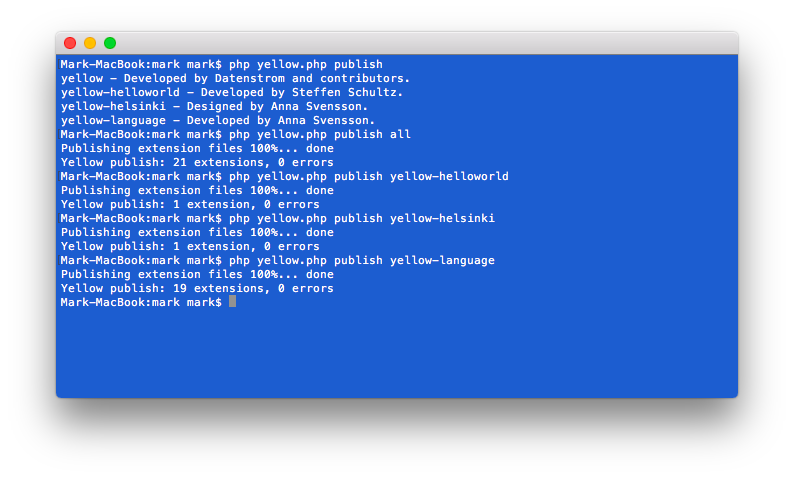
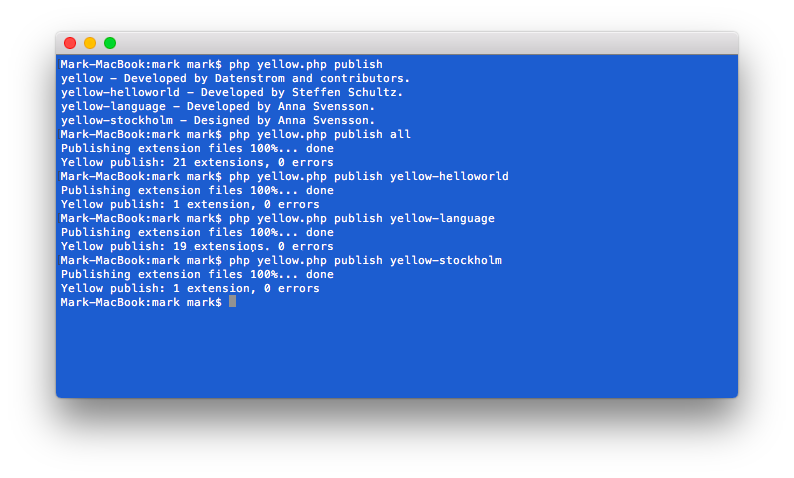
Updated documentation and screenshot

diff --git a/README-de.md b/README-de.md
@@ -8,7 +8,7 @@ Erweiterungen erstellen und veröffentlichen.
 
 ## Wie man eine Erweiterung erstellt
 
-Beginne mit einer [Beispiel-Funktion](https://github.com/schulle4u/yellow-helloworld) oder einem [Beispiel-Thema](https://github.com/schulle4u/yellow-basic). Das zeigt dir welche Dateien und Einstellungen erforderlich sind. Jede Erweiterung benötigt eine `extension.ini`-Datei mit Erweiterungseinstellungen. Bitte stelle sicher, dass deine Erweiterung unseren Programmierungs- und Dokumentationsstandards entspricht. Es ist nicht wichtig welchen Standard wir verwenden, aber dass wir alle einen gemeinsamen verwenden. Dann kann man in jede Erweiterung eintauchen und findet eine vertraute Struktur vor, in der man sich schnell zurecht findet. Lade deine Erweiterung zu GitHub hoch, lass uns wissen falls du Hilfe brauchst.
+Beginne mit einer [Funktion](https://github.com/schulle4u/yellow-helloworld), einer [Sprache](https://github.com/annaesvensson/yellow-language/tree/main/translation/german) oder einem [Thema](https://github.com/annaesvensson/yellow-stockholm/tree/main/README-de.md). Das zeigt dir welche Dateien und Einstellungen erforderlich sind. Jede Erweiterung benötigt eine `extension.ini`-Datei mit Erweiterungseinstellungen. Bitte stelle sicher, dass deine Erweiterung unseren Programmierungs- und Dokumentationsstandards entspricht. Es ist nicht wichtig welchen Standard wir verwenden, aber dass wir alle einen gemeinsamen verwenden. Dann kann man in jede Erweiterung eintauchen und findet eine vertraute Struktur vor, in der man sich schnell zurecht findet. Lade deine Erweiterung zu GitHub hoch, lass uns wissen falls du Hilfe brauchst.
 
 Falls du möchtest dass andere deine Erweiterung entdecken, kannst du das Thema [datenstrom-yellow](https://github.com/topics/datenstrom-yellow) zur deinem Repository hinzufügen.
 
@@ -36,7 +36,7 @@ Version: 0.8.15
 Description: Example feature for Datenstrom Yellow.
 DocumentationUrl: https://github.com/schulle4u/yellow-helloworld
 DownloadUrl: https://github.com/schulle4u/yellow-helloworld/archive/main.zip
-Published: 2019-01-24 19:42:13
+Published: 2020-08-13 16:12:30
 Developer: Steffen Schultz
 Tag: feature
 system/extensions/helloworld.php: helloworld.php, create, update
@@ -45,40 +45,42 @@ system/extensions/helloworld.css: helloworld.css, create, update
 system/extensions/helloworld.txt: helloworld.txt, create, update
 ~~~
 
-Erweiterungseinstellungen für ein Thema:
-
-~~~
-# Datenstrom Yellow extension settings
-
-Extension: Helsinki
-Version: 0.8.15
-Description: Example theme for Datenstrom Yellow.
-DocumentationUrl: https://github.com/annasvensson/yellow-helsinki
-DownloadUrl: https://github.com/annasvensson/yellow-helsinki/archive/main.zip
-Published: 2019-01-24 19:42:13
-Designer: Anna Svensson
-Tag: theme
-system/extensions/helsinki.php: helsinki.php, create, update
-system/extensions/helsinki.txt: helsinki.txt, create, update
-system/themes/helsinki.css: helsinki.css, create, update, careful
-system/themes/helsinki.png: helsinki.png, create
-~~~
-
 Erweiterungseinstellungen für eine Sprache:
 
 ~~~
 # Datenstrom Yellow extension settings
 
 Extension: German
-Version: 0.8.24
+Version: 0.8.32
 Description: German/Deutsch with language 'de'.
 DocumentationUrl: https://github.com/annaesvensson/yellow-language/tree/main/translation/german
 DownloadUrl: https://github.com/datenstrom/yellow-extensions/raw/main/downloads/german.zip
-Published: 2019-01-24 19:42:13
+Published: 2022-04-24 15:40:14
 Translator: David Fehrmann
 Tag: language
 system/extensions/german.php: german.php, create, update
 system/extensions/german.txt: german.txt, create, update
+~~~
+
+Erweiterungseinstellungen für ein Thema:
+
+~~~
+# Datenstrom Yellow extension settings
+
+Extension: Stockholm
+Version: 0.8.13
+Description: Stockholm is a clean theme.
+DocumentationUrl: https://github.com/annaesvensson/yellow-stockholm
+DownloadUrl: https://github.com/datenstrom/yellow-extensions/raw/main/downloads/stockholm.zip
+Published: 2022-06-15 16:03:38
+Designer: Anna Svensson
+Tag: theme
+system/extensions/stockholm.php: stockholm.php, create, update
+system/themes/stockholm.css: stockholm.css, create, update, careful
+system/themes/stockholm.png: stockholm.png, create
+system/themes/stockholm-opensans-bold.woff: stockholm-opensans-bold.woff, create, update, careful
+system/themes/stockholm-opensans-light.woff: stockholm-opensans-light.woff, create, update, careful
+system/themes/stockholm-opensans-regular.woff: stockholm-opensans-regular.woff, create, update, careful
 ~~~
 
 Vorhandene Verzeichnisse in der Befehlszeile anzeigen:
@@ -92,8 +94,8 @@ Alle Verzeichnisse in der Befehlszeile veröffentlichen:
 Erweiterungen in der Befehlszeile veröffentlichen:
 
 `php yellow.php publish yellow-helloworld`  
-`php yellow.php publish yellow-helsinki`  
 `php yellow.php publish yellow-language`  
+`php yellow.php publish yellow-stockholm`  
 
 ## Einstellungen
 

diff --git a/README-sv.md b/README-sv.md
@@ -8,7 +8,7 @@ Göra och publicera tillägg.
 
 ## Hur man gör ett tillägg
 
-Börja med en [exempel-funktion](https://github.com/schulle4u/yellow-helloworld) eller ett [exempel-tema](https://github.com/schulle4u/yellow-basic). Detta visar dig vilka filer och inställningar som krävs. Varje tillägg behöver en `extension.ini` fil med tilläggsinställningar. Se till att ditt tillägg följer våra kodnings- och dokumentationsstandarder. Det är inte viktigt vilken standard vi använder, men att vi alla använder en gemensam. Sen kan man dyka in i vilken tillägg som helst och hitta en välbekant struktur som man snabbt kan hitta runt i. Ladda upp ditt tillägg till GitHub, låt oss veta om du behöver hjälp.
+Börja med en [funktion](https://github.com/schulle4u/yellow-extension-helloworld), ett [språk](https://github.com/annaesvensson/yellow-language/tree/main/translation/swedish) eller ett [tema](https://github.com/annaesvensson/yellow-stockholm/tree/main/README-sv.md). Detta visar dig vilka filer och inställningar som krävs. Varje tillägg behöver en `extension.ini` fil med tilläggsinställningar. Se till att ditt tillägg följer våra kodnings- och dokumentationsstandarder. Det är inte viktigt vilken standard vi använder, men att vi alla använder en gemensam. Sen kan man dyka in i vilken tillägg som helst och hitta en välbekant struktur som man snabbt kan hitta runt i. Ladda upp ditt tillägg till GitHub, låt oss veta om du behöver hjälp.
 
 Om du vill att andra upptäcka ditt tillägg, lägg till ämnet [datenstrom-yellow](https://github.com/topics/datenstrom-yellow) till ditt repository.
 
@@ -36,7 +36,7 @@ Version: 0.8.15
 Description: Example feature for Datenstrom Yellow.
 DocumentationUrl: https://github.com/schulle4u/yellow-helloworld
 DownloadUrl: https://github.com/schulle4u/yellow-helloworld/archive/main.zip
-Published: 2019-01-24 19:42:13
+Published: 2020-08-13 16:12:30
 Developer: Steffen Schultz
 Tag: feature
 system/extensions/helloworld.php: helloworld.php, create, update
@@ -45,40 +45,42 @@ system/extensions/helloworld.css: helloworld.css, create, update
 system/extensions/helloworld.txt: helloworld.txt, create, update
 ~~~
 
-Tilläggsinställningar för ett tema:
-
-~~~
-# Datenstrom Yellow extension settings
-
-Extension: Helsinki
-Version: 0.8.15
-Description: Example theme for Datenstrom Yellow.
-DocumentationUrl: https://github.com/annasvensson/yellow-helsinki
-DownloadUrl: https://github.com/annasvensson/yellow-helsinki/archive/main.zip
-Published: 2019-01-24 19:42:13
-Designer: Anna Svensson
-Tag: theme
-system/extensions/helsinki.php: helsinki.php, create, update
-system/extensions/helsinki.txt: helsinki.txt, create, update
-system/themes/helsinki.css: helsinki.css, create, update, careful
-system/themes/helsinki.png: helsinki.png, create
-~~~
-
 Tilläggsinställningar för ett språk:
 
 ~~~
 # Datenstrom Yellow extension settings
 
 Extension: Swedish
-Version: 0.8.24
+Version: 0.8.32
 Description: Swedish/Svenska with language 'sv'.
 DocumentationUrl: https://github.com/annaesvensson/yellow-language/tree/main/translation/swedish
 DownloadUrl: https://github.com/datenstrom/yellow-extensions/raw/main/downloads/swedish.zip
-Published: 2019-01-24 19:42:13
+Published: 2022-04-24 15:40:40
 Translator: Adam Engel
 Tag: language
 system/extensions/swedish.php: swedish.php, create, update
 system/extensions/swedish.txt: swedish.txt, create, update
+~~~
+
+Tilläggsinställningar för ett tema:
+
+~~~
+# Datenstrom Yellow extension settings
+
+Extension: Stockholm
+Version: 0.8.13
+Description: Stockholm is a clean theme.
+DocumentationUrl: https://github.com/annaesvensson/yellow-stockholm
+DownloadUrl: https://github.com/datenstrom/yellow-extensions/raw/main/downloads/stockholm.zip
+Published: 2022-06-15 16:03:38
+Designer: Anna Svensson
+Tag: theme
+system/extensions/stockholm.php: stockholm.php, create, update
+system/themes/stockholm.css: stockholm.css, create, update, careful
+system/themes/stockholm.png: stockholm.png, create
+system/themes/stockholm-opensans-bold.woff: stockholm-opensans-bold.woff, create, update, careful
+system/themes/stockholm-opensans-light.woff: stockholm-opensans-light.woff, create, update, careful
+system/themes/stockholm-opensans-regular.woff: stockholm-opensans-regular.woff, create, update, careful
 ~~~
 
 Visar tillgängliga mappar på kommandoraden:
@@ -92,8 +94,8 @@ Publicera alla mappar på kommandoraden:
 Publicera tillägg på kommandoraden:
 
 `php yellow.php publish yellow-helloworld`  
-`php yellow.php publish yellow-helsinki`  
 `php yellow.php publish yellow-language`  
+`php yellow.php publish yellow-stockholm`  
 
 ## Inställningar
 

diff --git a/README.md b/README.md
@@ -8,7 +8,7 @@ Make and publish extensions.
 
 ## How to make an extension
 
-Start with an [example feature](https://github.com/schulle4u/yellow-helloworld) or [example theme](https://github.com/schulle4u/yellow-basic). This will show you which files and settings are required. Every extension needs an `extension.ini` file with extension settings. Please make sure that your extension follows our coding and documentation standards. It's not important which standard we use, but that we all use a common one. Then you can dive into any extension and find a well-known structure in which you can quickly find your way around. Upload your extension to GitHub, let us know if you need help.
+Start with a [feature](https://github.com/schulle4u/yellow-helloworld), [language](https://github.com/annaesvensson/yellow-language/tree/main/translation/english) or [theme](https://github.com/annaesvensson/yellow-stockholm). This will show you which files and settings are required. Every extension needs an `extension.ini` file with extension settings. Please make sure that your extension follows our coding and documentation standards. It's not important which standard we use, but that we all use a common one. Then you can dive into any extension and find a well-known structure in which you can quickly find your way around. Upload your extension to GitHub, let us know if you need help.
 
 If you want others to discover your extension, add the topic [datenstrom-yellow](https://github.com/topics/datenstrom-yellow) to your repository.
 
@@ -36,7 +36,7 @@ Version: 0.8.15
 Description: Example feature for Datenstrom Yellow.
 DocumentationUrl: https://github.com/schulle4u/yellow-helloworld
 DownloadUrl: https://github.com/schulle4u/yellow-helloworld/archive/main.zip
-Published: 2019-01-24 19:42:13
+Published: 2020-08-13 16:12:30
 Developer: Steffen Schultz
 Tag: feature
 system/extensions/helloworld.php: helloworld.php, create, update
@@ -45,40 +45,42 @@ system/extensions/helloworld.css: helloworld.css, create, update
 system/extensions/helloworld.txt: helloworld.txt, create, update
 ~~~
 
-Extension settings for a theme:
-
-~~~
-# Datenstrom Yellow extension settings
-
-Extension: Helsinki
-Version: 0.8.15
-Description: Example theme for Datenstrom Yellow.
-DocumentationUrl: https://github.com/annasvensson/yellow-helsinki
-DownloadUrl: https://github.com/annasvensson/yellow-helsinki/archive/main.zip
-Published: 2019-01-24 19:42:13
-Designer: Anna Svensson
-Tag: theme
-system/extensions/helsinki.php: helsinki.php, create, update
-system/extensions/helsinki.txt: helsinki.txt, create, update
-system/themes/helsinki.css: helsinki.css, create, update, careful
-system/themes/helsinki.png: helsinki.png, create
-~~~
-
 Extension settings for a language:
 
 ~~~
 # Datenstrom Yellow extension settings
 
 Extension: English
-Version: 0.8.24
+Version: 0.8.32
 Description: English/English with language 'en'.
 DocumentationUrl: https://github.com/annaesvensson/yellow-language/tree/main/translation/english
 DownloadUrl: https://github.com/datenstrom/yellow-extensions/raw/main/downloads/english.zip
-Published: 2019-01-24 19:42:13
+Published: 2022-04-24 15:40:08
 Translator: Mark Seuffert
 Tag: language
 system/extensions/english.php: english.php, create, update
 system/extensions/english.txt: english.txt, create, update
+~~~
+
+Extension settings for a theme:
+
+~~~
+# Datenstrom Yellow extension settings
+
+Extension: Stockholm
+Version: 0.8.13
+Description: Stockholm is a clean theme.
+DocumentationUrl: https://github.com/annaesvensson/yellow-stockholm
+DownloadUrl: https://github.com/datenstrom/yellow-extensions/raw/main/downloads/stockholm.zip
+Published: 2022-06-15 16:03:38
+Designer: Anna Svensson
+Tag: theme
+system/extensions/stockholm.php: stockholm.php, create, update
+system/themes/stockholm.css: stockholm.css, create, update, careful
+system/themes/stockholm.png: stockholm.png, create
+system/themes/stockholm-opensans-bold.woff: stockholm-opensans-bold.woff, create, update, careful
+system/themes/stockholm-opensans-light.woff: stockholm-opensans-light.woff, create, update, careful
+system/themes/stockholm-opensans-regular.woff: stockholm-opensans-regular.woff, create, update, careful
 ~~~
 
 Showing available folders at the command line:
@@ -92,8 +94,8 @@ Publishing all folders at the command line:
 Publishing extensions at the command line:
 
 `php yellow.php publish yellow-helloworld`  
-`php yellow.php publish yellow-helsinki`  
 `php yellow.php publish yellow-language`  
+`php yellow.php publish yellow-stockholm`  
 
 ## Settings
 
